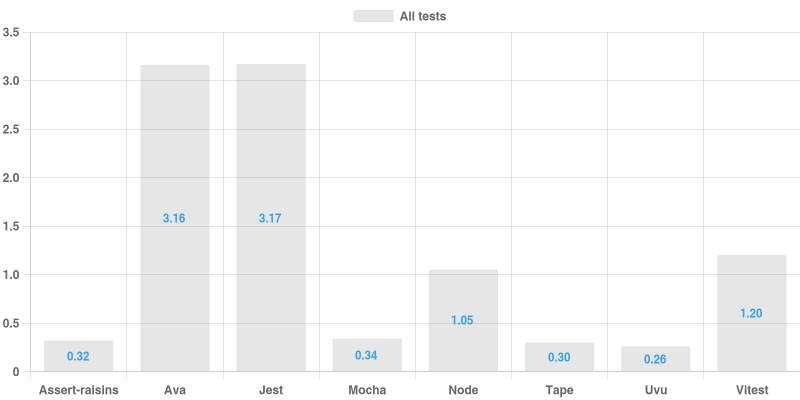
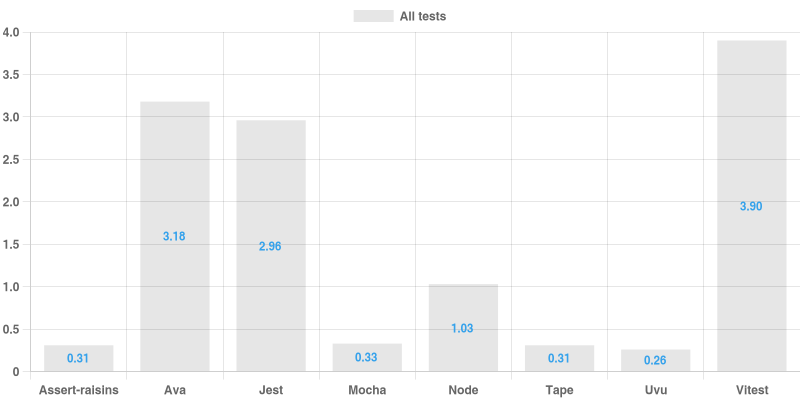
Automatically update readme.md

diff --git a/bin/updateReadme.js b/bin/updateReadme.js
@@ -1,0 +1,13 @@
+import fs from 'node:fs'
+
+const readme = fs.readFileSync('readme.md', 'utf8').split('\n')
+const results = fs.readFileSync('results.md', 'utf8').split('\n')
+
+const cutOffStartLineNumber = readme.findIndex(line => line.startsWith('|'))
+const cutOffEndLineNumber = readme.findLastIndex(line => line.startsWith('|'))
+
+const updatedReadme = readme.slice(0, cutOffStartLineNumber)
+updatedReadme.push(...results)
+updatedReadme.push(...readme.slice(cutOffEndLineNumber + 2))
+
+fs.writeFileSync('readme.md', updatedReadme.join('\n'))

diff --git a/vitest.config.js b/vitest.config.js
@@ -4,6 +4,5 @@ export default defineConfig({
   test: {
     include: ['./build/vitest/*.js'],
     watch: false,
-    isolate: false,
   },
 })

diff --git a/readme.md b/readme.md
@@ -17,30 +17,32 @@ To generate sizable "import" load, I took a large Node project - [Sails](https:/
 
 ### Raw results
 
-| runner | real | user | system |
-| ------ | ----:| ----:| ------:|
-|Node all tests|1.05|10.51|2.81|
-|Node single test|0.20|0.19|0.05|
-|Jest all tests|3.17|33.88|4.82|
-|Jest single test|0.58|0.61|0.12|
-|Mocha all tests|0.34|0.35|0.06|
-|Mocha single test|0.25|0.26|0.05|
-|Tape all tests|0.30|0.30|0.07|
-|Tape single test|0.20|0.22|0.04|
-|Vitest all tests|1.20|7.90|2.01|
-|Vitest single test|0.85|3.34|1.37|
-|Uvu all tests|0.26|0.26|0.06|
-|Uvu single test|0.17|0.16|0.04|
-|Ava all tests|3.16|34.50|5.42|
-|Ava single test|0.48|0.51|0.11|
-|Assert-raisins all tests|0.32|0.31|0.08|
-|Assert-raisins single test|0.21|0.21|0.05|
+| runner | real | user | system | notes |
+| ------ | ----:| ----:| ------:| ----- |
+|Node all tests|1.03|10.47|2.73||
+|Node single test|0.19|0.18|0.05||
+|Jest all tests|2.96|34.09|4.88||
+|Jest single test|0.56|0.58|0.13||
+|Mocha all tests|0.33|0.34|0.07||
+|Mocha single test|0.23|0.23|0.06||
+|Tape all tests|0.31|0.32|0.06|No concurrency|
+|Tape single test|0.19|0.21|0.04||
+|Vitest all tests|3.90|33.28|10.39|Default concurrency mode|
+|Vitest single test|0.80|3.04|1.18||
+|Uvu all tests|0.26|0.26|0.06|No concurrency|
+|Uvu single test|0.16|0.15|0.04||
+|Ava all tests|3.18|34.52|5.39||
+|Ava single test|0.47|0.51|0.10||
+|Assert-raisins all tests|0.31|0.31|0.08||
+|Assert-raisins single test|0.21|0.20|0.06||
 
 ## Usage
 
 ```bash
-yarn install
+npm install
 ./run_tests
 ```
 
 This generates charts and `results.md` file with a table of results (see above).
+
+I use [grip](https://github.com/joeyespo/grip) to preview markdown locally.

diff --git a/results.md b/results.md
@@ -1,18 +1,18 @@
-| runner | real | user | system |
-| ------ | ----:| ----:| ------:|
-|Node all tests|1.05|10.51|2.81|
-|Node single test|0.20|0.19|0.05|
-|Jest all tests|3.17|33.88|4.82|
-|Jest single test|0.58|0.61|0.12|
-|Mocha all tests|0.34|0.35|0.06|
-|Mocha single test|0.25|0.26|0.05|
-|Tape all tests|0.30|0.30|0.07|
-|Tape single test|0.20|0.22|0.04|
-|Vitest all tests|1.20|7.90|2.01|
-|Vitest single test|0.85|3.34|1.37|
-|Uvu all tests|0.26|0.26|0.06|
-|Uvu single test|0.17|0.16|0.04|
-|Ava all tests|3.16|34.50|5.42|
-|Ava single test|0.48|0.51|0.11|
-|Assert-raisins all tests|0.32|0.31|0.08|
-|Assert-raisins single test|0.21|0.21|0.05|
+| runner | real | user | system | notes |
+| ------ | ----:| ----:| ------:| -----:|
+|Node all tests|1.03|10.47|2.73||
+|Node single test|0.19|0.18|0.05||
+|Jest all tests|2.96|34.09|4.88||
+|Jest single test|0.56|0.58|0.13||
+|Mocha all tests|0.33|0.34|0.07||
+|Mocha single test|0.23|0.23|0.06||
+|Tape all tests|0.31|0.32|0.06|No concurrency|
+|Tape single test|0.19|0.21|0.04||
+|Vitest all tests|3.90|33.28|10.39|Default concurrency mode|
+|Vitest single test|0.80|3.04|1.18||
+|Uvu all tests|0.26|0.26|0.06|No concurrency|
+|Uvu single test|0.16|0.15|0.04||
+|Ava all tests|3.18|34.52|5.39||
+|Ava single test|0.47|0.51|0.10||
+|Assert-raisins all tests|0.31|0.31|0.08||
+|Assert-raisins single test|0.21|0.20|0.06||
